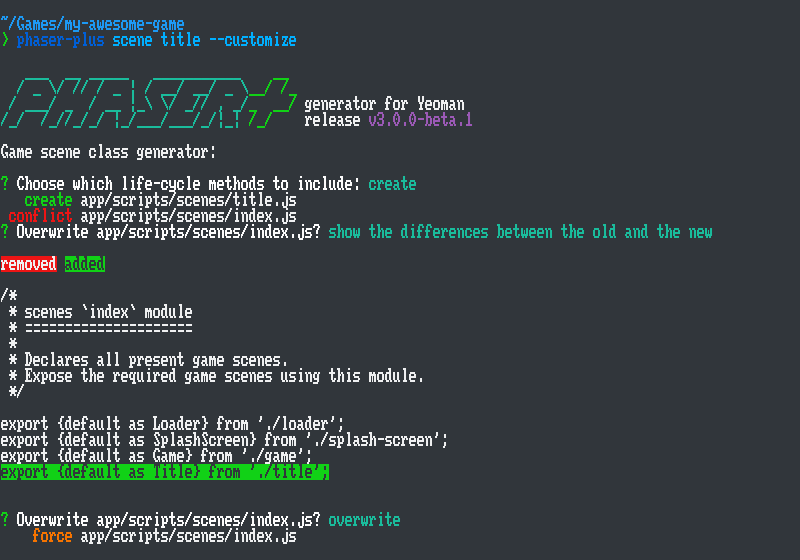
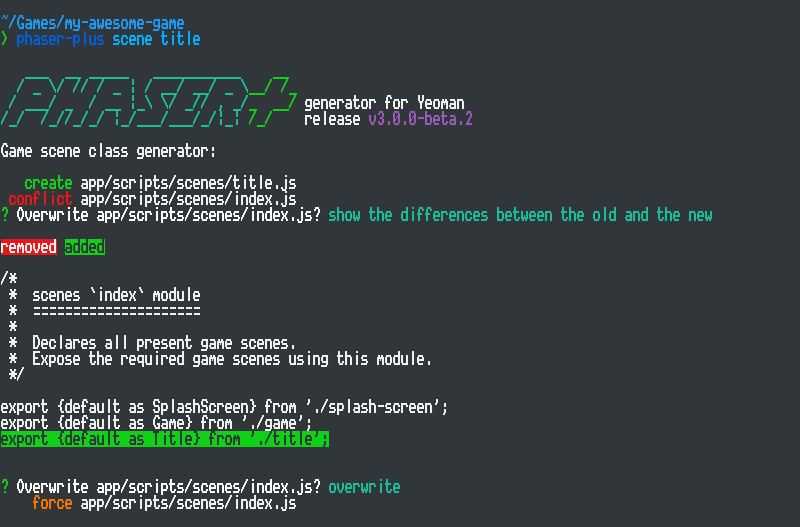
Updated tutorial and screenshots.

diff --git a/README.md b/README.md
@@ -157,18 +157,14 @@ We will start by creating a new "Title" scene, using the [`scene` generator](#sc
 To add that new game scene to your game project, run the following command:
 
 ```
-phaser-plus scene title --customize
+phaser-plus scene title
 ```
 
 That command will execute the `scene` generator to create a stub of a new Phaser Scene class. A scene is where all action in a Phaser game happens. For example, we use scenes to manipulate physics, update the game logic and process player input.
 
-The scene we are creating here will be named `Title`, and will serve as our game's title card, with an simple "Start Game" button. Its code will be contained in a file named `title.js`, under the `app/scripts/scenes/` directory.
-
-Using the `--customize` flag, the generator will prompt which life-cycle methods to add in your scene. Passing this flag to the `phaser-plus scene` command is optional and usually the `create` and `update` methods are automatically chosen for us. We won't need the `update` method, though, so let's take this opportunity and pick only the one we need.
+The scene we are creating here will be named `Title`, and will serve as our game's title screen, with a simple "Start Game" button. Its code will be contained in a file named `title.js`, under the `app/scripts/scenes/` directory.
 
 <div align='center'><img src='media/tutorial/02.png' alt='Screenshot'></div>
-
-Move between the options using the keyboard up (<kbd>↑</kbd>) and down (<kbd>↓</kbd>) arrow keys. To check or uncheck an option, hit the <kbd>Space Bar</kbd> key. Confirm your selection typing <kbd>Enter</kbd>.
 
 Immediately after you hit <kbd>Enter</kbd>, the generator will halt for a moment. This is OK. The generator will try to update the scenes index (the `app/scritps/scenes/index.js` module), so you don't have to do that manually. Since it is modifying an already existing file, the generator will give you the opportunity to review and confirm these changes. You can type <kbd>D</kbd>, followed by <kbd>Enter</kbd>, to see which lines are being added to the file. Type <kbd>Y</kbd> and <kbd>Enter</kbd> to answer "Yes" and confirm the changes.
 
